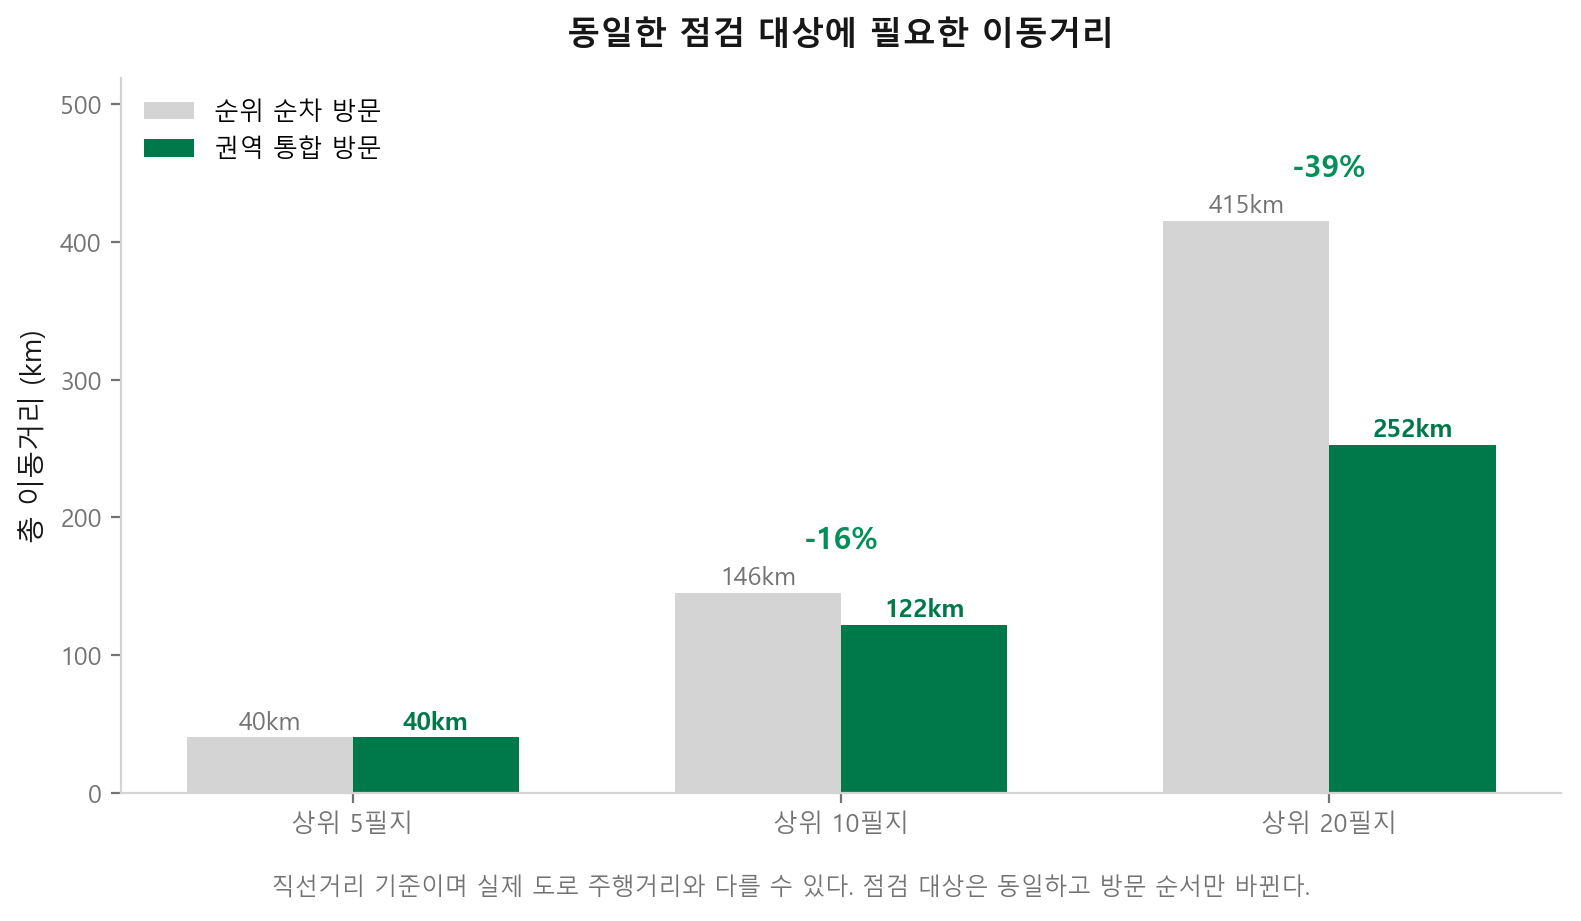
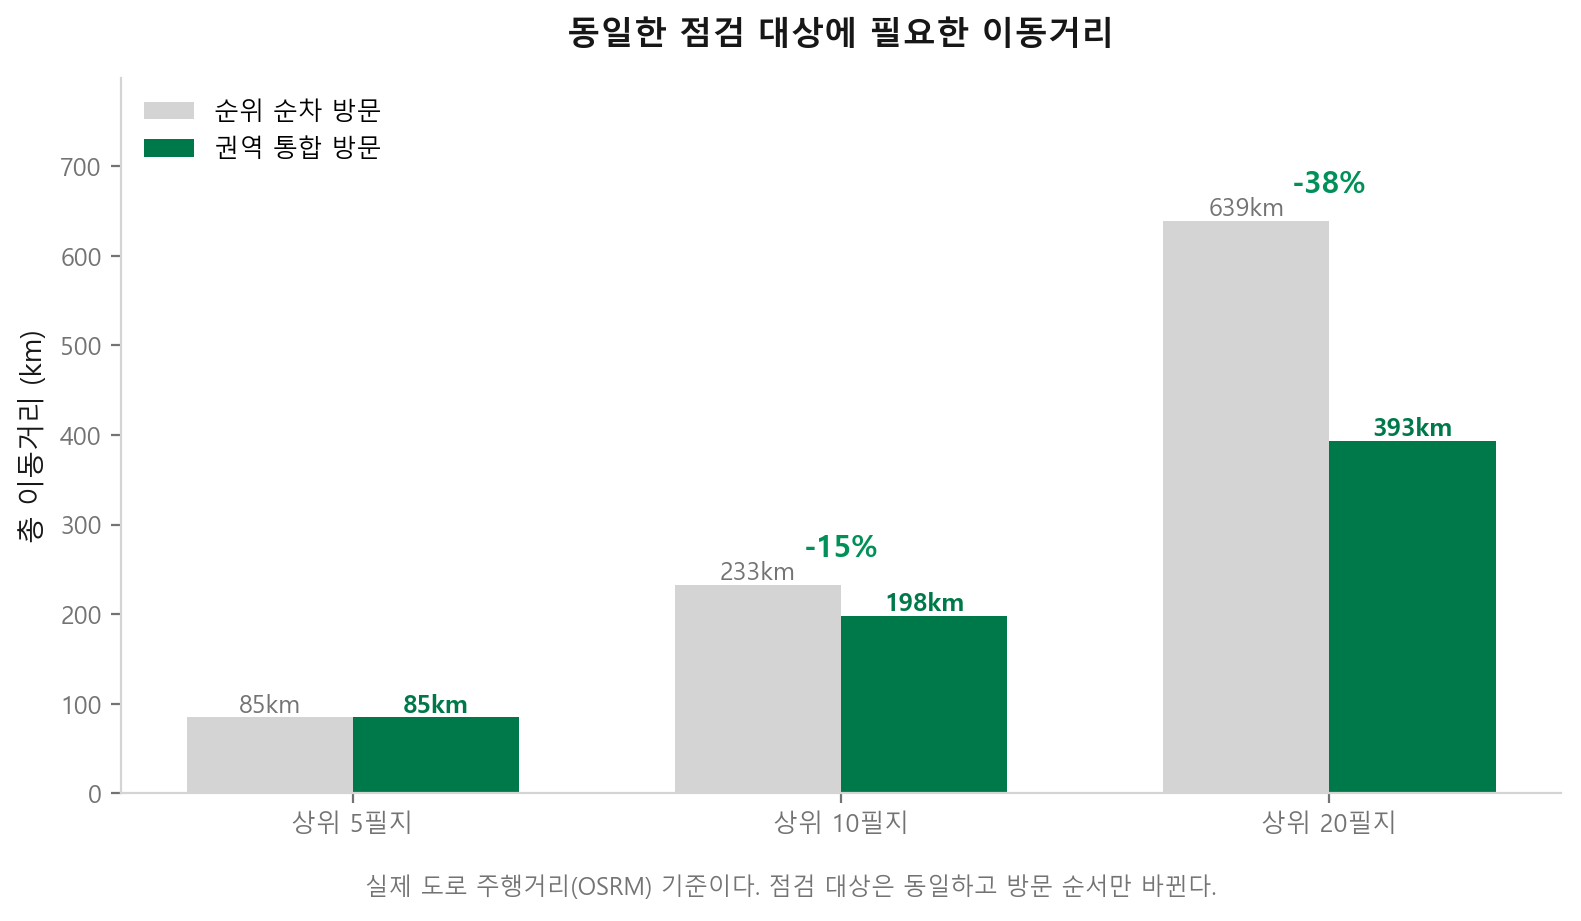
동선 절감 차트를 도로 실거리 기준으로 갱신, 주간보고서 캡처 스크립트 추가
F_route_savings.png는 로컬 API의 /priority-queue/route를 그대로 호출해 그리는데,
그 값이 직선거리에서 도로 실거리(OSRM)로 바뀌었으니 차트도 다시 그려야 정합성이
맞는다. 캡션도 distance_basis를 보고 "실제 도로 주행거리(OSRM) 기준"으로 조건부
전환하게 했다.

capture_weekly_report.py는 capture_screens.py 전체를 다시 돌리지 않고 주간보고서
화면만 재촬영하기 위한 스크립트 — 이번 변경으로 영향받는 화면이 그것뿐이었다.

diff --git a/scripts/capture_weekly_report.py b/scripts/capture_weekly_report.py
@@ -1,0 +1,44 @@
+"""주간 점검현황 보고서만 다시 찍는다 — 도로 실거리 반영 후 이동거리 문구 갱신 확인용.
+
+capture_screens.py 전체를 다시 돌리면 무관한 화면까지 재촬영해 몇 분이 더 걸린다.
+이번에 바뀐 건 동선 거리뿐이므로 보고서 화면만 다시 찍는다.
+"""
+from __future__ import annotations
+
+import sys
+from pathlib import Path
+
+from playwright.sync_api import sync_playwright
+
+URL = "https://waterside-guard.vercel.app"
+OUT = Path(sys.argv[1] if len(sys.argv) > 1 else "docs/screens")
+VIEWPORT = {"width": 1600, "height": 1000}
+SCALE = 2
+
+
+def main() -> None:
+    sys.stdout.reconfigure(encoding="utf-8", errors="replace")
+    OUT.mkdir(parents=True, exist_ok=True)
+    with sync_playwright() as pw:
+        browser = pw.chromium.launch()
+        ctx = browser.new_context(viewport=VIEWPORT, device_scale_factor=SCALE, locale="ko-KR")
+        page = ctx.new_page()
+        page.goto(URL, wait_until="networkidle", timeout=120_000)
+        page.wait_for_timeout(9000)
+
+        page.get_by_role("button", name="주간 점검현황").click()
+        page.wait_for_timeout(1500)
+        page.get_by_role("button", name="보고서 생성").click()
+        print("보고서 생성 대기(최대 3분)...")
+        page.wait_for_selector("text=총괄 요약", timeout=180_000)
+        page.wait_for_timeout(4000)
+
+        doc = page.locator(".report-doc")
+        page.screenshot(path=str(OUT / "07_주간보고서_상단.png"))
+        doc.screenshot(path=str(OUT / "08_주간보고서_전문.png"))
+        print(f"저장: 07_주간보고서_상단.png, 08_주간보고서_전문.png -> {OUT}/")
+        browser.close()
+
+
+if __name__ == "__main__":
+    main()

diff --git a/scripts/generate_figures.py b/scripts/generate_figures.py
@@ -189,12 +189,13 @@ def fig_seasonal_principle() -> None:
 def fig_route_savings() -> None:
     """예산별로 '순위대로 이동' vs '군집 순서 이동' 거리 비교."""
     budgets = [5, 10, 20]
-    naive, clustered, saved_pct = [], [], []
+    naive, clustered, saved_pct, basis = [], [], [], []
     for b in budgets:
         d = _api(f"/priority-queue/route?budget={b}")["data"]
         naive.append(d["naive_order_length_m"] / 1000)
         clustered.append(d["clustered_order_length_m"] / 1000)
         saved_pct.append(d["saved_pct"])
+        basis.append(d["distance_basis"])
 
     fig, ax = plt.subplots(figsize=(8, 4.4))
     x = range(len(budgets))
@@ -216,8 +217,12 @@ def fig_route_savings() -> None:
     ax.set_title("동일한 점검 대상에 필요한 이동거리", fontsize=12, fontweight="bold", color=INK, pad=12)
     ax.legend(fontsize=9, frameon=False, loc="upper left")
     _style(ax)
-    fig.text(0.5, -0.03,
-             "직선거리 기준이며 실제 도로 주행거리와 다를 수 있다. 점검 대상은 동일하고 방문 순서만 바뀐다.",
+    caption = (
+        "실제 도로 주행거리(OSRM) 기준이다. 점검 대상은 동일하고 방문 순서만 바뀐다."
+        if all(b == "driving" for b in basis)
+        else "직선거리 기준이며 실제 도로 주행거리와 다를 수 있다. 점검 대상은 동일하고 방문 순서만 바뀐다."
+    )
+    fig.text(0.5, -0.03, caption,
              ha="center", fontsize=8.5, color=MUTED)
     fig.tight_layout()
     _save(fig, "F_route_savings")
